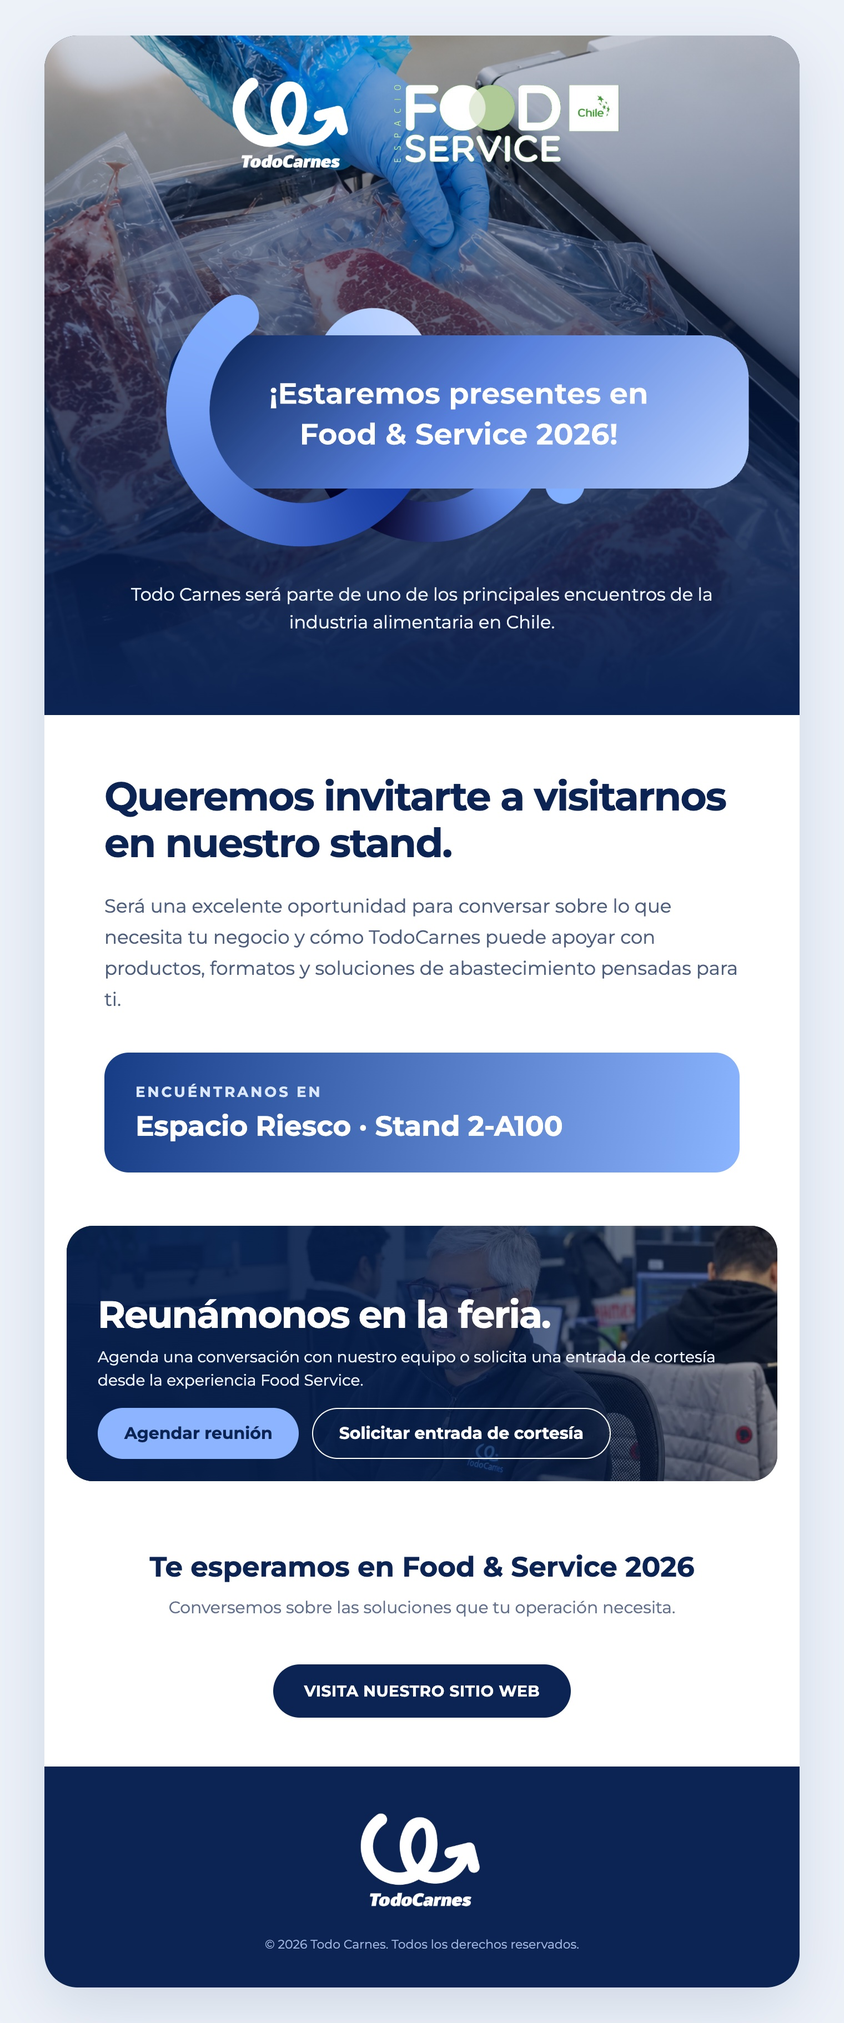
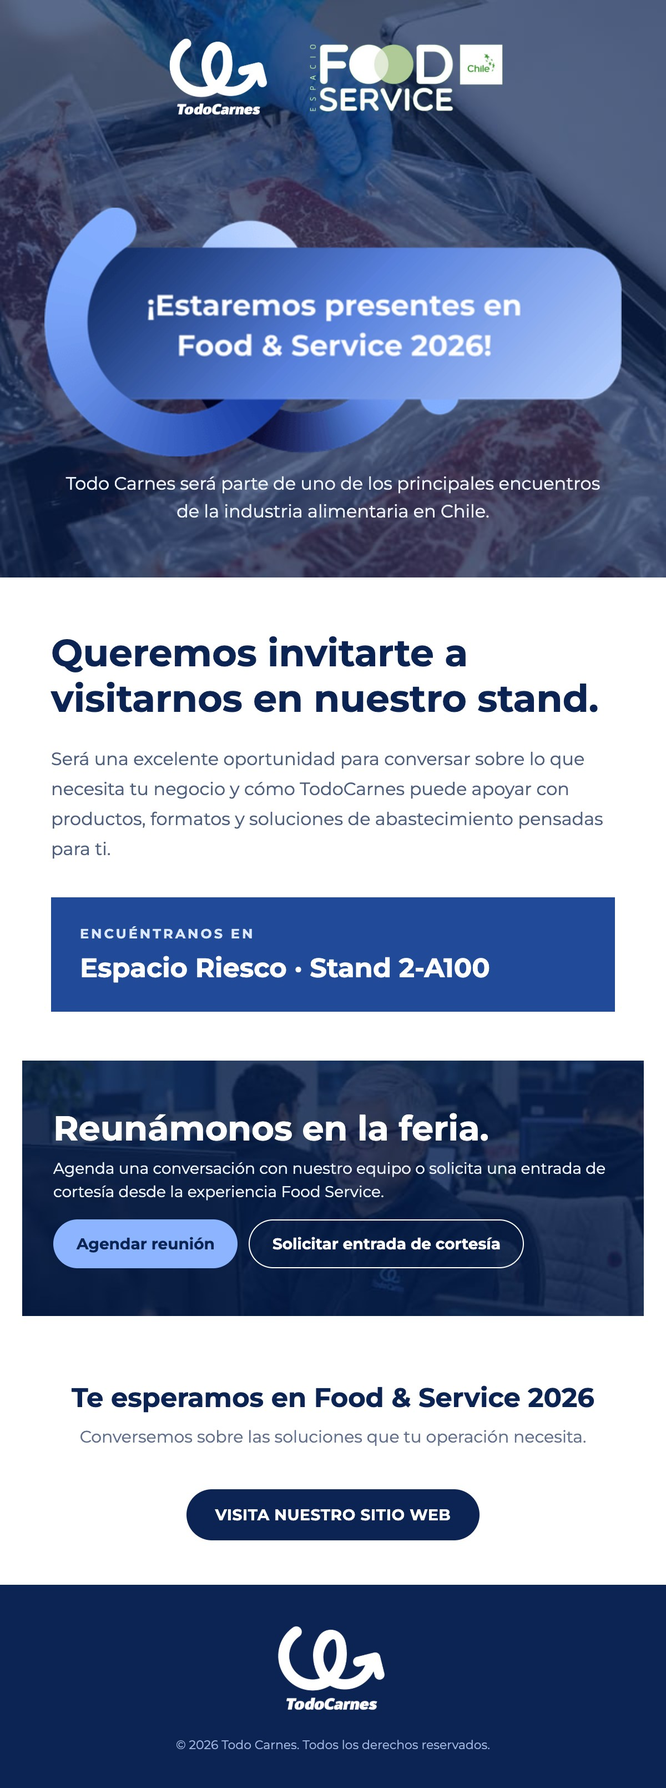
fix(web): compatibilizar mailing Food Service con Outlook

diff --git a/apps/web/public/mailings/01_food-service/index.html b/apps/web/public/mailings/01_food-service/index.html
@@ -1,71 +1,82 @@
 <!doctype html>
-<html lang="es">
+<html lang="es" xmlns="http://www.w3.org/1999/xhtml" xmlns:v="urn:schemas-microsoft-com:vml" xmlns:o="urn:schemas-microsoft-com:office:office">
   <head>
     <meta charset="utf-8">
     <meta name="viewport" content="width=device-width, initial-scale=1">
     <meta name="x-apple-disable-message-reformatting">
+    <meta name="format-detection" content="telephone=no,address=no,email=no,date=no,url=no">
     <title>Todo Carnes en Food &amp; Service 2026</title>
+    <!--[if mso]>
+    <noscript><xml><o:OfficeDocumentSettings><o:PixelsPerInch>96</o:PixelsPerInch></o:OfficeDocumentSettings></xml></noscript>
+    <style>
+      table { border-collapse: collapse; }
+      td, a, span, div { font-family: Arial, Helvetica, sans-serif !important; }
+    </style>
+    <![endif]-->
     <style>
       @font-face { font-family: 'Montserrat'; font-style: normal; font-weight: 400; src: url('https://todocarnes.cl/mailings/01_food-service/assets/Montserrat-Regular.woff2') format('woff2'); }
       @font-face { font-family: 'Montserrat'; font-style: normal; font-weight: 500; src: url('https://todocarnes.cl/mailings/01_food-service/assets/Montserrat-Medium.woff2') format('woff2'); }
       @font-face { font-family: 'Montserrat'; font-style: normal; font-weight: 600; src: url('https://todocarnes.cl/mailings/01_food-service/assets/Montserrat-SemiBold.woff2') format('woff2'); }
       @font-face { font-family: 'Montserrat'; font-style: normal; font-weight: 700; src: url('https://todocarnes.cl/mailings/01_food-service/assets/Montserrat-Bold.woff2') format('woff2'); }
       html, body { margin: 0 !important; padding: 0 !important; width: 100% !important; }
-      table, td { border-collapse: collapse !important; }
-      img { border: 0; display: block; outline: none; text-decoration: none; }
+      body { -webkit-text-size-adjust: 100%; -ms-text-size-adjust: 100%; }
+      table { border-spacing: 0; mso-table-lspace: 0pt; mso-table-rspace: 0pt; }
+      td { padding: 0; }
+      img { border: 0; display: block; height: auto; line-height: 100%; outline: none; text-decoration: none; -ms-interpolation-mode: bicubic; }
       a { text-decoration: none; }
-      .preheader { display: none !important; max-height: 0; max-width: 0; opacity: 0; overflow: hidden; mso-hide: all; }
-      @media only screen and (max-width: 680px) {
-        .shell { width: 100% !important; }
-        .pad { padding-left: 24px !important; padding-right: 24px !important; }
-        .hero-title { font-size: 38px !important; line-height: 42px !important; }
-        .section-title { font-size: 31px !important; line-height: 36px !important; }
-        .cta-title { font-size: 32px !important; line-height: 37px !important; }
-        .fair-content { height: auto !important; }
-        .logo-gap { padding-right: 14px !important; }
-        .brand-logo { width: 96px !important; }
-        .partner-logo { width: 170px !important; }
-        .button-cell { display: block !important; padding: 0 0 12px !important; }
-        .button-cell a { display: block !important; text-align: center !important; }
+      .ExternalClass { width: 100%; }
+      .ExternalClass, .ExternalClass p, .ExternalClass span, .ExternalClass font, .ExternalClass td, .ExternalClass div { line-height: 100%; }
+      .preheader { display: none !important; max-height: 0 !important; max-width: 0 !important; opacity: 0 !important; overflow: hidden !important; mso-hide: all !important; }
+      @media only screen and (max-width: 620px) {
+        .email-shell { width: 100% !important; }
+        .outer-pad { padding: 0 !important; }
+        .content-pad { padding-left: 24px !important; padding-right: 24px !important; }
+        .headline-image { width: 100% !important; max-width: 520px !important; height: auto !important; }
+        .section-title { font-size: 30px !important; line-height: 36px !important; }
+        .cta-title { font-size: 29px !important; line-height: 35px !important; }
+        .brand-logo { width: 92px !important; }
+        .partner-logo { width: 150px !important; }
+        .logo-gap { width: 16px !important; }
+        .button-row, .button-cell { display: block !important; width: 100% !important; }
+        .button-cell { padding: 0 0 12px !important; }
+        .button-link { box-sizing: border-box !important; display: block !important; width: 100% !important; text-align: center !important; }
+        .fair-copy { padding-left: 24px !important; padding-right: 24px !important; }
       }
     </style>
   </head>
-  <body style="margin:0; padding:0; background:#edf2f9; color:#0c2453; font-family:'Montserrat', Arial, Helvetica, sans-serif;">
+  <body style="margin:0; padding:0; background-color:#edf2f9; color:#0c2453; font-family:'Montserrat',Arial,Helvetica,sans-serif;">
     <div class="preheader">Todo Carnes estará presente en Food &amp; Service 2026. Agenda una reunión o solicita tu entrada de cortesía.</div>
-    <table role="presentation" width="100%" cellspacing="0" cellpadding="0" border="0" style="width:100%; background:#edf2f9;">
+    <div class="preheader">&nbsp;&zwnj;&nbsp;&zwnj;&nbsp;&zwnj;&nbsp;&zwnj;&nbsp;&zwnj;&nbsp;&zwnj;&nbsp;&zwnj;&nbsp;&zwnj;&nbsp;&zwnj;&nbsp;&zwnj;</div>
+    <table role="presentation" width="100%" cellspacing="0" cellpadding="0" border="0" bgcolor="#edf2f9" style="width:100%; background-color:#edf2f9;">
       <tr>
-        <td align="center" style="padding:32px 12px;">
-          <table role="presentation" class="shell" width="680" cellspacing="0" cellpadding="0" border="0" style="width:680px; max-width:680px; background:#ffffff; border-radius:30px; overflow:hidden; box-shadow:0 18px 55px rgba(12,36,83,.13);">
+        <td class="outer-pad" align="center" style="padding:28px 10px;">
+          <!--[if mso]><table role="presentation" width="600" cellspacing="0" cellpadding="0" border="0"><tr><td><![endif]-->
+          <table role="presentation" class="email-shell" width="600" cellspacing="0" cellpadding="0" border="0" align="center" bgcolor="#ffffff" style="width:100%; max-width:600px; margin:0 auto; background-color:#ffffff;">
             <tr>
-              <td background="https://todocarnes.cl/mailings/01_food-service/assets/proceso-envasado.jpg" valign="top" style="background:#0d2758 url('https://todocarnes.cl/mailings/01_food-service/assets/proceso-envasado.jpg') center center / cover no-repeat;">
+              <td width="600" height="520" background="https://todocarnes.cl/mailings/01_food-service/assets/proceso-envasado-email.jpg" valign="top" bgcolor="#0c2453" style="width:600px; height:520px; background-color:#0c2453; background-image:url('https://todocarnes.cl/mailings/01_food-service/assets/proceso-envasado-email.jpg'); background-position:center center; background-repeat:no-repeat; background-size:cover;">
                 <!--[if gte mso 9]>
-                <v:rect xmlns:v="urn:schemas-microsoft-com:vml" fill="true" stroke="false" style="width:680px;height:590px;">
-                  <v:fill type="frame" src="https://todocarnes.cl/mailings/01_food-service/assets/proceso-envasado.jpg" color="#0d2758" />
+                <v:rect fill="true" stroke="false" style="width:600px;height:520px;">
+                  <v:fill type="frame" src="https://todocarnes.cl/mailings/01_food-service/assets/proceso-envasado-email.jpg" color="#0c2453" />
                   <v:textbox inset="0,0,0,0">
                 <![endif]-->
-                <table role="presentation" width="100%" cellspacing="0" cellpadding="0" border="0" style="background:linear-gradient(180deg,rgba(5,27,70,.18) 0%,rgba(5,27,70,.78) 62%,#0c2453 100%);">
+                <table role="presentation" width="100%" height="520" cellspacing="0" cellpadding="0" border="0" style="width:100%; height:520px;">
                   <tr>
-                    <td class="pad" style="height:560px; padding:30px 38px 22px;" valign="top">
-                      <table role="presentation" align="center" cellspacing="0" cellpadding="0" border="0" style="margin:0 auto;">
-                        <tr>
-                          <td class="logo-gap" align="center" valign="middle" style="padding-right:24px;">
-                            <img class="brand-logo" src="https://todocarnes.cl/mailings/01_food-service/assets/logo-blanco.png" width="128" alt="Todo Carnes" style="width:128px; height:auto;">
-                          </td>
-                          <td align="center" valign="middle">
-                            <img class="partner-logo" src="https://todocarnes.cl/mailings/01_food-service/assets/espacio-food-service.png" width="210" alt="Espacio Food Service Chile" style="width:210px; height:auto;">
-                          </td>
-                        </tr>
-                      </table>
+                    <td class="content-pad" align="center" valign="top" style="padding:28px 40px 24px;">
                       <table role="presentation" width="100%" cellspacing="0" cellpadding="0" border="0">
-                        <tr><td height="84" style="height:84px; font-size:1px; line-height:1px;">&nbsp;</td></tr>
                         <tr>
                           <td align="center">
-                            <img src="https://todocarnes.cl/mailings/01_food-service/assets/header-food-service-2026.svg" width="590" alt="¡Estaremos presentes en Food &amp; Service 2026!" style="width:100%; max-width:590px; height:auto; margin:0 auto;">
+                            <table role="presentation" cellspacing="0" cellpadding="0" border="0" align="center">
+                              <tr>
+                                <td align="center" valign="middle"><img class="brand-logo" src="https://todocarnes.cl/mailings/01_food-service/assets/logo-blanco.png" width="108" alt="Todo Carnes" style="width:108px; max-width:108px; height:auto;"></td>
+                                <td class="logo-gap" width="24" style="width:24px; font-size:1px; line-height:1px;">&nbsp;</td>
+                                <td align="center" valign="middle"><img class="partner-logo" src="https://todocarnes.cl/mailings/01_food-service/assets/espacio-food-service.png" width="180" alt="Espacio Food Service Chile" style="width:180px; max-width:180px; height:auto;"></td>
+                              </tr>
+                            </table>
                           </td>
                         </tr>
-                        <tr>
-                          <td align="center" style="padding:6px 30px 0; font-size:16px; line-height:25px; color:#eef4ff;">Todo Carnes será parte de uno de los principales encuentros de la industria alimentaria en Chile.</td>
-                        </tr>
+                        <tr><td height="78" style="height:78px; font-size:1px; line-height:1px;">&nbsp;</td></tr>
+                        <tr><td align="center"><img class="headline-image" src="https://todocarnes.cl/mailings/01_food-service/assets/header-food-service-2026.png" width="520" alt="¡Estaremos presentes en Food &amp; Service 2026!" style="width:520px; max-width:100%; height:auto; margin:0 auto;"></td></tr>
+                        <tr><td align="center" style="padding:12px 18px 0; font-family:'Montserrat',Arial,Helvetica,sans-serif; font-size:16px; line-height:25px; color:#eef4ff;">Todo Carnes será parte de uno de los principales encuentros de la industria alimentaria en Chile.</td></tr>
                       </table>
                     </td>
                   </tr>
@@ -73,63 +84,51 @@
                 <!--[if gte mso 9]></v:textbox></v:rect><![endif]-->
               </td>
             </tr>
-
             <tr>
-              <td class="pad" style="padding:52px 54px 48px; background:#ffffff;">
+              <td class="content-pad" bgcolor="#ffffff" style="padding:48px 46px 44px; background-color:#ffffff;">
                 <table role="presentation" width="100%" cellspacing="0" cellpadding="0" border="0">
+                  <tr><td class="section-title" style="font-family:'Montserrat',Arial,Helvetica,sans-serif; font-size:34px; line-height:41px; font-weight:700; color:#0c2453;">Queremos invitarte a visitarnos en nuestro stand.</td></tr>
+                  <tr><td style="padding-top:20px; font-family:'Montserrat',Arial,Helvetica,sans-serif; font-size:16px; line-height:27px; color:#4e5f7e;">Será una excelente oportunidad para conversar sobre lo que necesita tu negocio y cómo TodoCarnes puede apoyar con productos, formatos y soluciones de abastecimiento pensadas para ti.</td></tr>
+                  <tr><td height="30" style="height:30px; font-size:1px; line-height:1px;">&nbsp;</td></tr>
                   <tr>
-                    <td class="section-title" style="font-size:36px; line-height:42px; font-weight:800; color:#0c2453; letter-spacing:-1px;">Queremos invitarte a visitarnos en nuestro stand.</td>
-                  </tr>
-                  <tr>
-                    <td style="padding:22px 0 0; font-size:17px; line-height:28px; color:#4e5f7e;">Será una excelente oportunidad para conversar sobre lo que necesita tu negocio y cómo TodoCarnes puede apoyar con productos, formatos y soluciones de abastecimiento pensadas para ti.</td>
-                  </tr>
-                  <tr><td height="34" style="height:34px; font-size:1px; line-height:1px;">&nbsp;</td></tr>
-                  <tr>
-                    <td style="border-radius:22px; background:linear-gradient(100deg,#163c86 0%,#8cb5ff 100%); padding:26px 28px;">
+                    <td bgcolor="#214b99" style="padding:24px 26px; background-color:#214b99;">
                       <table role="presentation" width="100%" cellspacing="0" cellpadding="0" border="0">
-                        <tr>
-                          <td style="font-size:13px; line-height:18px; font-weight:700; letter-spacing:2px; color:#dbe8ff; text-transform:uppercase;">Encuéntranos en</td>
-                        </tr>
-                        <tr>
-                          <td style="padding-top:7px; font-size:25px; line-height:31px; font-weight:800; color:#ffffff;">Espacio Riesco · Stand 2-A100</td>
-                        </tr>
+                        <tr><td style="font-family:'Montserrat',Arial,Helvetica,sans-serif; font-size:12px; line-height:18px; font-weight:700; letter-spacing:2px; color:#dbe8ff; text-transform:uppercase;">Encuéntranos en</td></tr>
+                        <tr><td style="padding-top:6px; font-family:'Montserrat',Arial,Helvetica,sans-serif; font-size:24px; line-height:31px; font-weight:700; color:#ffffff;">Espacio Riesco · Stand 2-A100</td></tr>
                       </table>
                     </td>
                   </tr>
                 </table>
               </td>
             </tr>
-
             <tr>
-              <td style="padding:0 20px 20px; background:#ffffff;">
-                <table role="presentation" width="100%" cellspacing="0" cellpadding="0" border="0" style="border-radius:24px; overflow:hidden;">
+              <td bgcolor="#ffffff" style="padding:0 20px 20px; background-color:#ffffff;">
+                <table role="presentation" width="100%" cellspacing="0" cellpadding="0" border="0">
                   <tr>
-                    <td background="https://todocarnes.cl/mailings/01_food-service/assets/feria-food-service.jpg" valign="bottom" style="background:#0c2453 url('https://todocarnes.cl/mailings/01_food-service/assets/feria-food-service.jpg') center center / cover no-repeat;">
+                    <td width="560" height="230" background="https://todocarnes.cl/mailings/01_food-service/assets/feria-food-service-email.jpg" valign="middle" bgcolor="#0c2453" style="width:560px; height:230px; background-color:#0c2453; background-image:url('https://todocarnes.cl/mailings/01_food-service/assets/feria-food-service-email.jpg'); background-position:center center; background-repeat:no-repeat; background-size:cover;">
                       <!--[if gte mso 9]>
-                      <v:rect xmlns:v="urn:schemas-microsoft-com:vml" fill="true" stroke="false" style="width:640px;height:230px;">
-                        <v:fill type="frame" src="https://todocarnes.cl/mailings/01_food-service/assets/feria-food-service.jpg" color="#0c2453" />
+                      <v:rect fill="true" stroke="false" style="width:560px;height:230px;">
+                        <v:fill type="frame" src="https://todocarnes.cl/mailings/01_food-service/assets/feria-food-service-email.jpg" color="#0c2453" />
                         <v:textbox inset="0,0,0,0">
                       <![endif]-->
-                      <table role="presentation" width="100%" cellspacing="0" cellpadding="0" border="0" style="background:linear-gradient(90deg,rgba(6,31,76,.97) 0%,rgba(6,31,76,.87) 48%,rgba(6,31,76,.34) 100%);">
+                      <table role="presentation" width="100%" height="230" cellspacing="0" cellpadding="0" border="0" style="width:100%; height:230px;">
                         <tr>
-                          <td class="pad fair-content" style="height:190px; padding:20px 28px;" valign="bottom">
+                          <td class="fair-copy" valign="middle" style="padding:22px 28px;">
                             <table role="presentation" width="100%" cellspacing="0" cellpadding="0" border="0">
-                              <tr>
-                                <td class="cta-title" style="font-size:34px; line-height:39px; font-weight:800; color:#ffffff; letter-spacing:-1px;">Reunámonos en la feria.</td>
-                              </tr>
-                              <tr>
-                                <td style="padding-top:8px; max-width:540px; font-size:14px; line-height:21px; color:#edf3ff;">Agenda una conversación con nuestro equipo o solicita una entrada de cortesía desde la experiencia Food Service.</td>
-                              </tr>
+                              <tr><td class="cta-title" style="font-family:'Montserrat',Arial,Helvetica,sans-serif; font-size:31px; line-height:37px; font-weight:700; color:#ffffff;">Reunámonos en la feria.</td></tr>
+                              <tr><td style="padding-top:7px; font-family:'Montserrat',Arial,Helvetica,sans-serif; font-size:14px; line-height:21px; color:#edf3ff;">Agenda una conversación con nuestro equipo o solicita una entrada de cortesía desde la experiencia Food Service.</td></tr>
                               <tr><td height="14" style="height:14px; font-size:1px; line-height:1px;">&nbsp;</td></tr>
                               <tr>
                                 <td>
                                   <table role="presentation" cellspacing="0" cellpadding="0" border="0">
-                                    <tr>
-                                      <td class="button-cell" style="padding-right:12px;">
-                                        <a href="https://todocarnes.cl/agenda#reserva" target="_blank" style="display:inline-block; padding:14px 24px; border-radius:999px; background:#8db5ff; color:#0c2453; font-size:15px; line-height:18px; font-weight:800;">Agendar reunión</a>
+                                    <tr class="button-row">
+                                      <td class="button-cell" valign="middle" style="padding-right:10px;">
+                                        <!--[if mso]><v:roundrect href="https://todocarnes.cl/agenda#reserva" style="height:44px;v-text-anchor:middle;width:158px;" arcsize="50%" stroke="false" fillcolor="#8db5ff"><w:anchorlock xmlns:w="urn:schemas-microsoft-com:office:word"/><center style="color:#0c2453;font-family:Arial,Helvetica,sans-serif;font-size:14px;font-weight:bold;">Agendar reunión</center></v:roundrect><![endif]-->
+                                        <!--[if !mso]><!--><a class="button-link" href="https://todocarnes.cl/agenda#reserva" target="_blank" style="display:inline-block; padding:13px 21px; border-radius:999px; background-color:#8db5ff; color:#0c2453; font-family:'Montserrat',Arial,Helvetica,sans-serif; font-size:14px; line-height:18px; font-weight:700;">Agendar reunión</a><!--<![endif]-->
                                       </td>
-                                      <td class="button-cell">
-                                        <a href="https://todocarnes.cl/agenda#entrada-cortesia" target="_blank" style="display:inline-block; padding:13px 23px; border:1px solid #ffffff; border-radius:999px; color:#ffffff; font-size:15px; line-height:18px; font-weight:800;">Solicitar entrada de cortesía</a>
+                                      <td class="button-cell" valign="middle">
+                                        <!--[if mso]><v:roundrect href="https://todocarnes.cl/agenda#entrada-cortesia" style="height:44px;v-text-anchor:middle;width:224px;" arcsize="50%" strokecolor="#ffffff" strokeweight="1px" fillcolor="#0c2453"><w:anchorlock xmlns:w="urn:schemas-microsoft-com:office:word"/><center style="color:#ffffff;font-family:Arial,Helvetica,sans-serif;font-size:14px;font-weight:bold;">Solicitar entrada de cortesía</center></v:roundrect><![endif]-->
+                                        <!--[if !mso]><!--><a class="button-link" href="https://todocarnes.cl/agenda#entrada-cortesia" target="_blank" style="display:inline-block; padding:12px 20px; border:1px solid #ffffff; border-radius:999px; color:#ffffff; font-family:'Montserrat',Arial,Helvetica,sans-serif; font-size:14px; line-height:18px; font-weight:700;">Solicitar entrada de cortesía</a><!--<![endif]-->
                                       </td>
                                     </tr>
                                   </table>
@@ -145,25 +144,26 @@
                 </table>
               </td>
             </tr>
-
             <tr>
-              <td class="pad" align="center" style="padding:42px 54px 24px; background:#ffffff;">
-                <div style="font-size:25px; line-height:31px; font-weight:800; color:#0c2453;">Te esperamos en Food &amp; Service 2026</div>
-                <div style="padding-top:9px; font-size:15px; line-height:23px; color:#60708c;">Conversemos sobre las soluciones que tu operación necesita.</div>
+              <td class="content-pad" align="center" bgcolor="#ffffff" style="padding:38px 46px 22px; background-color:#ffffff;">
+                <div style="font-family:'Montserrat',Arial,Helvetica,sans-serif; font-size:24px; line-height:31px; font-weight:700; color:#0c2453;">Te esperamos en Food &amp; Service 2026</div>
+                <div style="padding-top:8px; font-family:'Montserrat',Arial,Helvetica,sans-serif; font-size:15px; line-height:23px; color:#60708c;">Conversemos sobre las soluciones que tu operación necesita.</div>
               </td>
             </tr>
             <tr>
-              <td align="center" style="padding:16px 54px 44px; background:#ffffff;">
-                <a href="https://todocarnes.cl" target="_blank" style="display:inline-block; padding:15px 28px; border-radius:999px; background:#0c2453; color:#ffffff; font-size:14px; line-height:18px; font-weight:800; letter-spacing:.3px;">VISITA NUESTRO SITIO WEB</a>
+              <td align="center" bgcolor="#ffffff" style="padding:14px 46px 40px; background-color:#ffffff;">
+                <!--[if mso]><v:roundrect href="https://todocarnes.cl" style="height:46px;v-text-anchor:middle;width:234px;" arcsize="50%" stroke="false" fillcolor="#0c2453"><w:anchorlock xmlns:w="urn:schemas-microsoft-com:office:word"/><center style="color:#ffffff;font-family:Arial,Helvetica,sans-serif;font-size:14px;font-weight:bold;">VISITA NUESTRO SITIO WEB</center></v:roundrect><![endif]-->
+                <!--[if !mso]><!--><a href="https://todocarnes.cl" target="_blank" style="display:inline-block; padding:14px 26px; border-radius:999px; background-color:#0c2453; color:#ffffff; font-family:'Montserrat',Arial,Helvetica,sans-serif; font-size:14px; line-height:18px; font-weight:700; letter-spacing:.3px;">VISITA NUESTRO SITIO WEB</a><!--<![endif]-->
               </td>
             </tr>
             <tr>
-              <td align="center" style="padding:34px 30px 30px; background:#0c2453;">
-                <img src="https://todocarnes.cl/mailings/01_food-service/assets/logo-blanco.png" width="132" alt="Todo Carnes" style="width:132px; height:auto; margin:0 auto;">
-                <div style="padding-top:18px; font-size:11px; line-height:18px; color:#9fb4dc;">© 2026 Todo Carnes. Todos los derechos reservados.</div>
+              <td align="center" bgcolor="#0c2453" style="padding:30px; background-color:#0c2453;">
+                <img src="https://todocarnes.cl/mailings/01_food-service/assets/logo-blanco.png" width="118" alt="Todo Carnes" style="width:118px; max-width:118px; height:auto; margin:0 auto;">
+                <div style="padding-top:16px; font-family:'Montserrat',Arial,Helvetica,sans-serif; font-size:11px; line-height:18px; color:#9fb4dc;">© 2026 Todo Carnes. Todos los derechos reservados.</div>
               </td>
             </tr>
           </table>
+          <!--[if mso]></td></tr></table><![endif]-->
         </td>
       </tr>
     </table>
